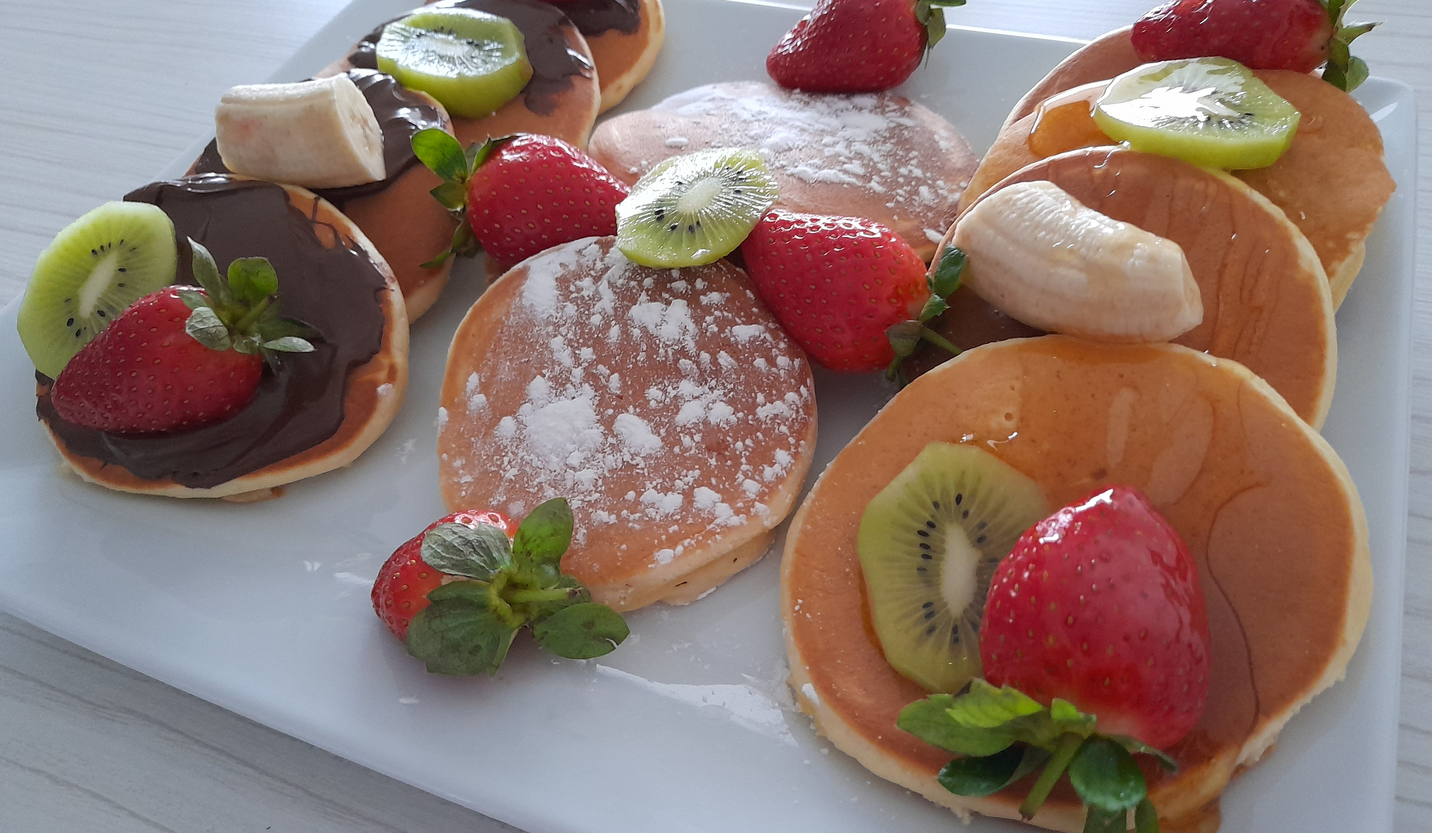
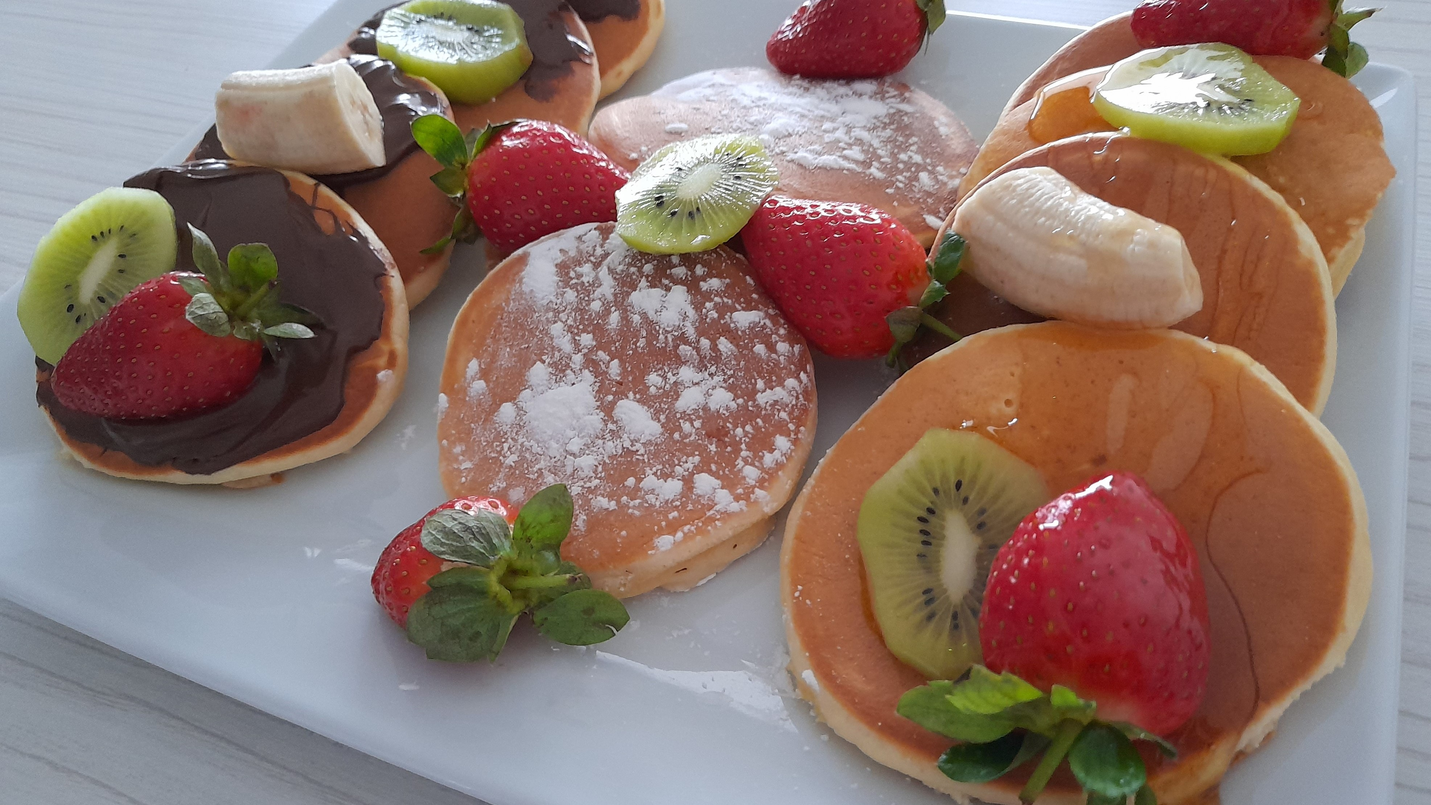
changed

diff --git a/website/fotogalerisi.html b/website/fotogalerisi.html
@@ -33,41 +33,41 @@
             <main>
              <h1>Fotoğraf Galerisi</h1>
              <a class = "link" href="images/1.jpg">
-                <img src="images/1.jpg" alt="" class="galResim">
+                <img src="images/13.jpg" alt="" class="galResim">
             </a>
-            <a class = "link" href=images/2.jpg">
-                <img src="images/2.jpg" alt="" class="galResim">
+            <a class = "link" href="images/2.jpg">
+                <img src="images/14.jpg" alt="" class="galResim">
             </a>
             <a class = "link" href="images/3.jpg">
-                <img src="images/3.jpg" alt="" class="galResim">
+                <img src="images/15.jpg" alt="" class="galResim">
             </a>
             <a class = "link" href="images/4.jpg">
-                <img src="images/4.jpg" alt="" class="galResim">
+                <img src="images/16.jpg" alt="" class="galResim">
             </a>
 
             <a class = "link" href="images/5.jpg">
-                <img src="images/5.jpg" alt="" class="galResim">
+                <img src="images/17.jpg" alt="" class="galResim">
             </a>
             <a class = "link" href="images/6.jpg">
-                <img src="images/6.jpg" alt="" class="galResim">
+                <img src="images/18.jpg" alt="" class="galResim">
             </a>
             <a class = "link" href="images/7.jpg">
-                <img src="images/7.jpg" alt="" class="galResim">
+                <img src="images/19.jpg" alt="" class="galResim">
             </a>
             <a class = "link" href="images/8.jpg">
-                <img src="images/8.jpg" alt="" class="galResim">
+                <img src="images/20.jpg" alt="" class="galResim">
             </a>
             <a class = "link" href="images/9.jpg">
-                <img src="images/9.jpg" alt="" class="galResim">
+                <img src="images/21.jpg" alt="" class="galResim">
             </a>
             <a class = "link" href="images/10.jpg">
-                <img src="images/10.jpg" alt="" class="galResim">
+                <img src="images/22.jpg" alt="" class="galResim">
             </a>
             <a class = "link" href="images/11.jpg">
-                <img src="images/11.jpg" alt="" class="galResim">
+                <img src="images/23.jpg" alt="" class="galResim">
             </a>
             <a class = "link" href="images/12.jpg">
-                <img src="images/12.jpg" alt="" class="galResim">
+                <img src="images/24.jpg" alt="" class="galResim">
             </a>
              
             </main>

diff --git a/website/css/app.css b/website/css/app.css
@@ -236,12 +236,13 @@ h1{
 }
 
 .galResim{
-    width: 22%;
-    height: 200px;
+    
+    
     border-radius: 5px;
     opacity: 0.9 ;
     box-shadow: 0 2px 8px 2px rgba(20,23,28,.15);
     margin: 10px;
+    margin-right: 4px;
     transition: all 0.6s;
     object-fit: cover;/*resmin oranını korur*/
 }
